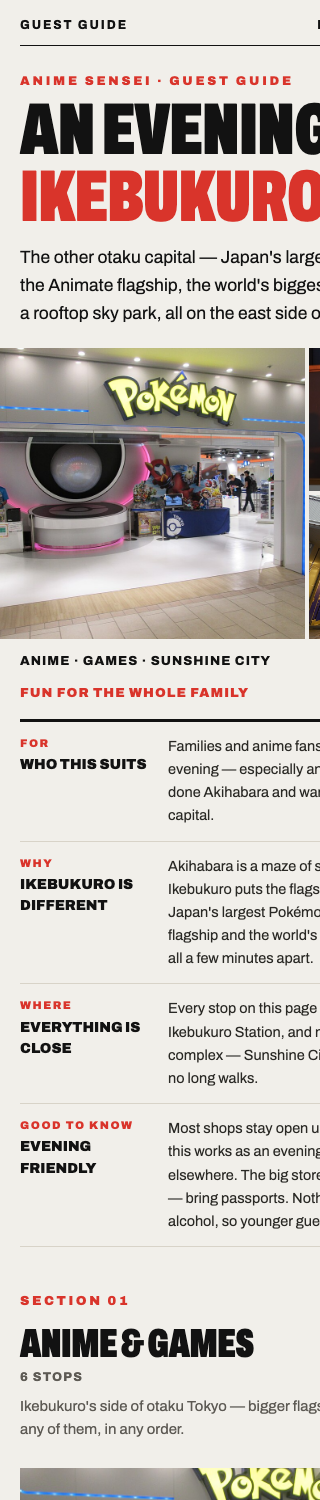
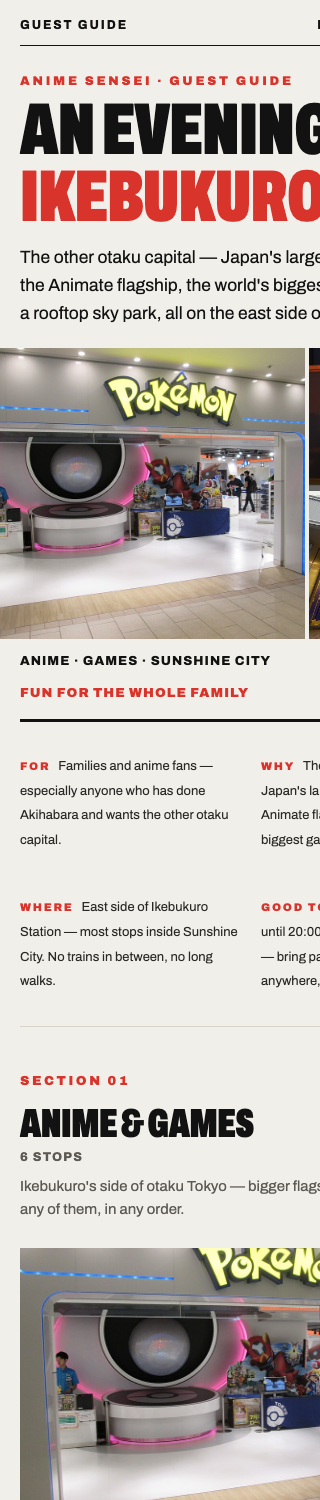
池袋ガイド リデザイン: 320px幅のはみ出し修正（R2チップ/R3プロフィール/R5キャプション）

Changed region(s): [[0.0625, 0.4907, 1.0, 1.0]]

diff --git a/ikebukuro-guide/redesign/r5.html b/ikebukuro-guide/redesign/r5.html
@@ -53,8 +53,8 @@ h1{margin:4px 0 12px;font-size:clamp(40px,11.5vw,60px);line-height:.95}h1 em{fon
 .spot .ph{display:block;width:100%;aspect-ratio:16/11;object-fit:cover;background:#ddd}
 .gmap{position:absolute;top:12px;right:12px;width:42px;height:42px;border-radius:50%;background:#fff;color:var(--ink);display:flex;align-items:center;justify-content:center;box-shadow:0 1px 5px rgba(0,0,0,.35);text-decoration:none}
 .gmap svg{width:21px;height:21px}
-.spot .cap{position:absolute;left:0;right:0;bottom:0;display:flex;justify-content:space-between;align-items:baseline;gap:10px;padding:26px 16px 10px;background:linear-gradient(transparent,rgba(10,10,10,.78));color:#fff}
-.spot .cap h3{margin:0;font-size:20px;line-height:1.1;color:#fff}
+.spot .cap{position:absolute;left:0;right:0;bottom:0;display:flex;flex-wrap:wrap;justify-content:space-between;align-items:baseline;gap:2px 10px;padding:26px 16px 10px;background:linear-gradient(transparent,rgba(10,10,10,.78));color:#fff}
+.spot .cap h3{margin:0;min-width:0;font-size:20px;line-height:1.1;color:#fff}
 .spot .cap .hrs{flex:none;font-size:12.5px;font-weight:900;color:#FFB0A0}
 .meta{margin:9px 0 0;font-size:11.5px;font-weight:800;letter-spacing:.1em;text-transform:uppercase;color:var(--mu)}
 .meta .jp{text-transform:none;letter-spacing:0;font-family:"Noto Sans JP",sans-serif;font-weight:700}

diff --git a/ikebukuro-guide/redesign/r2.html b/ikebukuro-guide/redesign/r2.html
@@ -32,9 +32,9 @@ h1{margin:6px 2px 12px;font-size:clamp(36px,10.5vw,54px);line-height:.98}h1 em{f
 .hb b{color:#FF7A6E}
 .igrid{display:grid;grid-template-columns:1fr 1fr;gap:8px;margin-top:10px}
 .igrid>*{min-width:0}
-.ie{background:#fff;border:2px solid var(--ink);border-radius:999px;padding:8px 13px;display:flex;gap:8px;align-items:baseline}
-.ie h4{margin:0;flex:none;font-size:10.5px;font-weight:900;text-transform:uppercase;letter-spacing:.07em;color:var(--red)}
-.ie p{margin:0;font-size:12px;line-height:1.45;color:#2A2925}
+.ie{background:#fff;border:2px solid var(--ink);border-radius:16px;padding:8px 13px}
+.ie h4{display:inline;margin:0 6px 0 0;font-size:10.5px;font-weight:900;text-transform:uppercase;letter-spacing:.07em;color:var(--red)}
+.ie p{display:inline;margin:0;font-size:12px;line-height:1.45;color:#2A2925}
 .bar{display:flex;justify-content:space-between;align-items:center;gap:10px;background:var(--ink);color:#fff;border-radius:12px;padding:10px 14px;margin:22px 0 10px}
 .bar h2{margin:0;font-size:19px;color:#fff}
 .bar span{flex:none;background:var(--red);color:#fff;font-weight:900;font-size:11.5px;padding:3px 10px;border-radius:999px;letter-spacing:.06em}

diff --git a/ikebukuro-guide/redesign/r3.html b/ikebukuro-guide/redesign/r3.html
@@ -79,7 +79,7 @@ h1{margin:6px 0 14px;font-size:clamp(52px,14.5vw,84px);line-height:.92}h1 em{fon
 .foot{padding:12px 0 36px;text-align:center}
 .foot a{display:block}
 .wm{display:block;width:230px;max-width:60%;margin:4px auto 0;opacity:.16}
-@media(max-width:480px){.ie{grid-template-columns:1fr}.namerow h3{font-size:22px}.idx{font-size:24px}.tx,.meta{margin-left:38px}}
+@media(max-width:480px){.ie{grid-template-columns:1fr}.namerow h3{font-size:22px}.idx{font-size:24px}.tx,.meta{margin-left:38px}.profile{flex-direction:column;gap:14px}.pface{width:92px;height:92px}}
 
 </style>
 </head>
